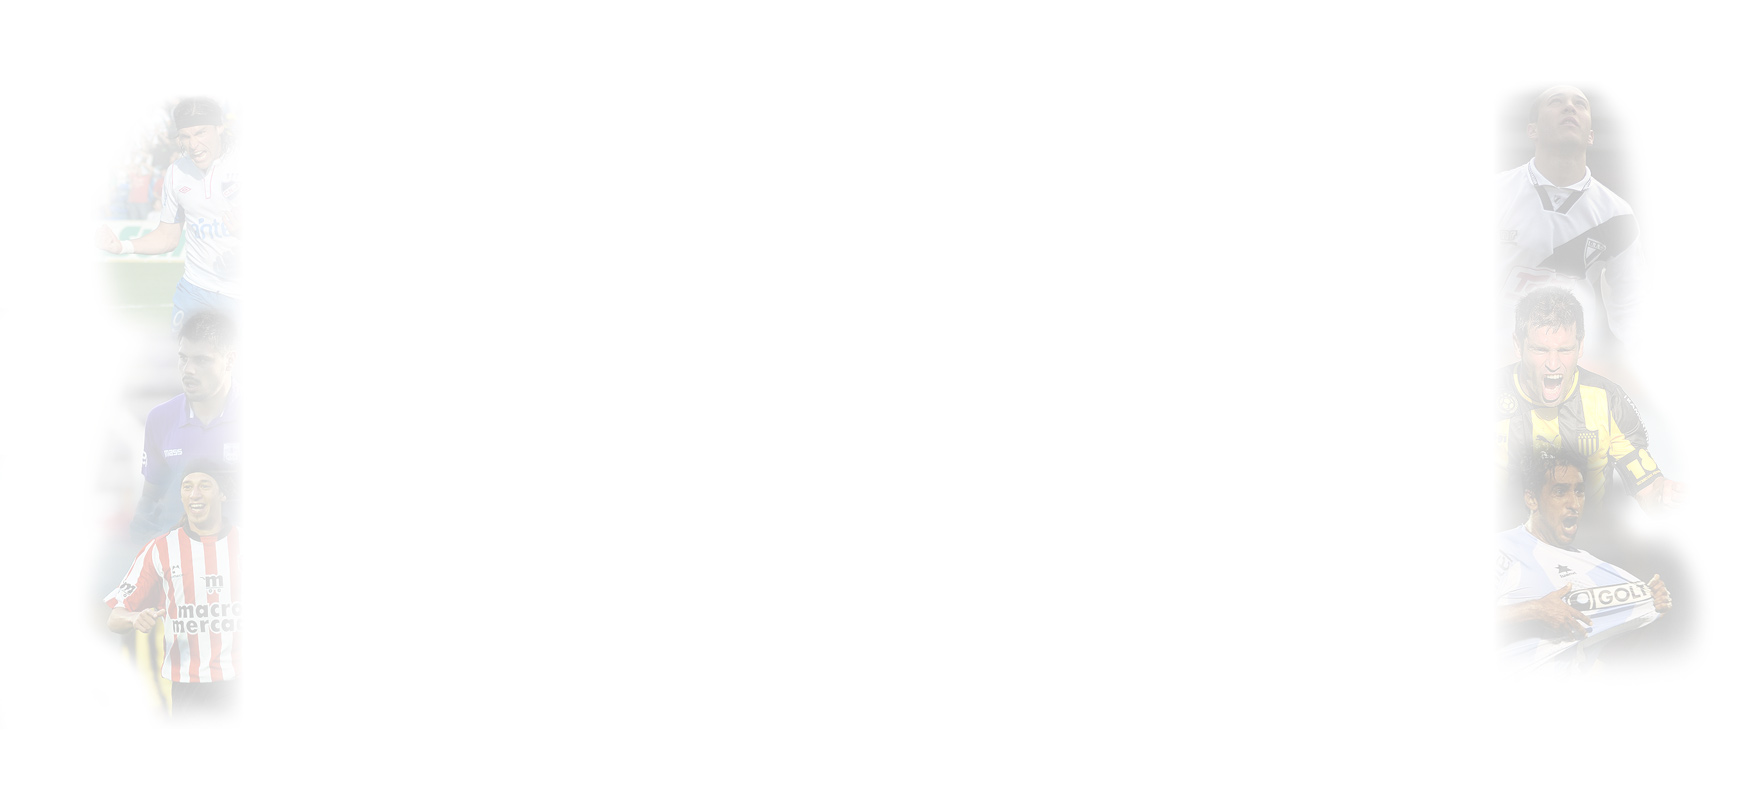
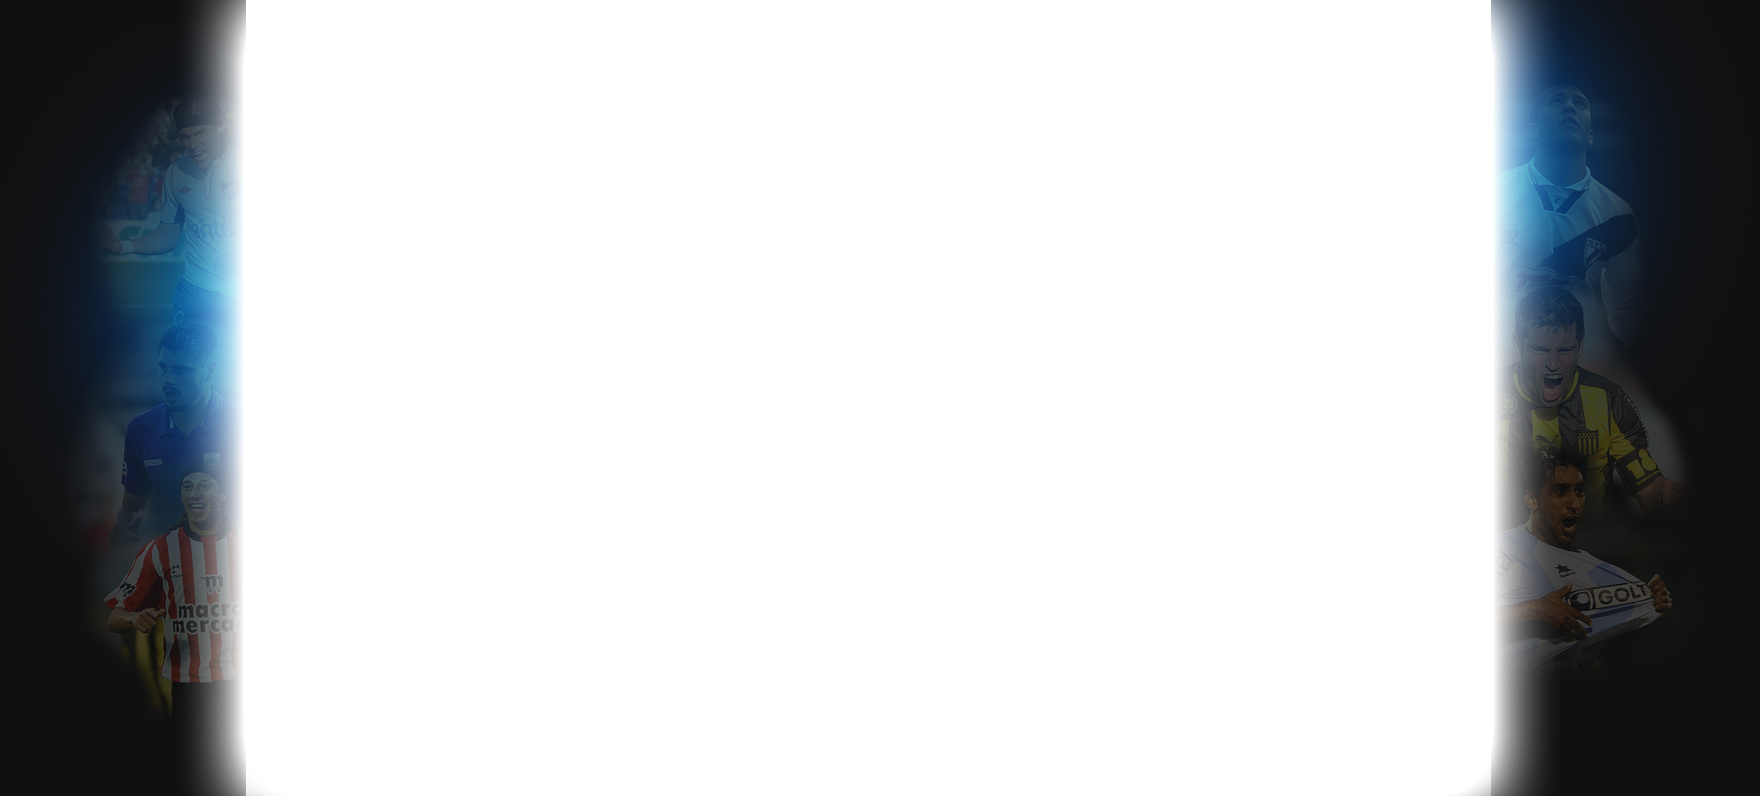
hola

Changed region(s): [[0.8125, 0.0, 1.0, 1.0], [0.0, 0.0, 0.1562, 1.0]]

diff --git a/src/scss/style.scss b/src/scss/style.scss
@@ -1,5 +1,5 @@
 body {
-	background: #fff url('../assets/images/bg.jpg') no-repeat center top;
+	background: #111 url('../assets/images/bg.jpg') no-repeat center top;
 }
 .left {
 	width: 300px;
@@ -29,7 +29,10 @@ body {
 	width: 300px;
 	height: 250px;
 	margin-bottom: 15px;
-	background: #000000;  /* fallback for old browsers */
+	background: #1e3c72;  /* fallback for old browsers */
+background: -webkit-linear-gradient(to bottom, #2a5298, #1e3c72);  /* Chrome 10-25, Safari 5.1-6 */
+background: linear-gradient(to bottom, #2a5298, #1e3c72); /* W3C, IE 10+/ Edge, Firefox 16+, Chrome 26+, Opera 12+, Safari 7+ */
+
 
     -webkit-border-bottom-right-radius: 5px;
 -moz-border-radius-bottomright: 5px;
@@ -49,6 +52,9 @@ border-bottom-right-radius: 5px;
 	margin-left: -32px;
 	margin-top: -22px;
 	background: url('../assets/images/play.png') no-repeat;
+}
+.centralRow {
+	margin-left: -11px;
 }
 .nota1 .description .meta a {
 	color: white;
@@ -76,9 +82,9 @@ border-bottom-right-radius: 5px;
 .nota1 .description {
 	width: 100%;
 	height: 155px;
-	background: #000000;  /* fallback for old browsers */
-background: -webkit-linear-gradient(to bottom, #202020, #000000);  /* Chrome 10-25, Safari 5.1-6 */
-background: linear-gradient(to bottom, #202020, #000000); /* W3C, IE 10+/ Edge, Firefox 16+, Chrome 26+, Opera 12+, Safari 7+ */
+	background: #1e3c72;  /* fallback for old browsers */
+background: -webkit-linear-gradient(to bottom, #2a5298, #1e3c72);  /* Chrome 10-25, Safari 5.1-6 */
+background: linear-gradient(to bottom, #2a5298, #1e3c72); /* W3C, IE 10+/ Edge, Firefox 16+, Chrome 26+, Opera 12+, Safari 7+ */
 
 }
 .btn-primary {

diff --git a/src/css/style.css b/src/css/style.css
@@ -1,5 +1,5 @@
 body {
-  background: #fff url("../assets/images/bg.jpg") no-repeat center top; }
+  background: #111 url("../assets/images/bg.jpg") no-repeat center top; }
 
 .left {
   width: 300px;
@@ -29,8 +29,12 @@ body {
   width: 300px;
   height: 250px;
   margin-bottom: 15px;
-  background: #000000;
+  background: #1e3c72;
   /* fallback for old browsers */
+  background: -webkit-linear-gradient(to bottom, #2a5298, #1e3c72);
+  /* Chrome 10-25, Safari 5.1-6 */
+  background: linear-gradient(to bottom, #2a5298, #1e3c72);
+  /* W3C, IE 10+/ Edge, Firefox 16+, Chrome 26+, Opera 12+, Safari 7+ */
   -webkit-border-bottom-right-radius: 5px;
   -moz-border-radius-bottomright: 5px;
   border-bottom-right-radius: 5px; }
@@ -49,6 +53,9 @@ body {
   margin-left: -32px;
   margin-top: -22px;
   background: url("../assets/images/play.png") no-repeat; }
+
+.centralRow {
+  margin-left: -11px; }
 
 .nota1 .description .meta a {
   color: white; }
@@ -74,11 +81,11 @@ body {
 .nota1 .description {
   width: 100%;
   height: 155px;
-  background: #000000;
+  background: #1e3c72;
   /* fallback for old browsers */
-  background: -webkit-linear-gradient(to bottom, #202020, #000000);
+  background: -webkit-linear-gradient(to bottom, #2a5298, #1e3c72);
   /* Chrome 10-25, Safari 5.1-6 */
-  background: linear-gradient(to bottom, #202020, #000000);
+  background: linear-gradient(to bottom, #2a5298, #1e3c72);
   /* W3C, IE 10+/ Edge, Firefox 16+, Chrome 26+, Opera 12+, Safari 7+ */ }
 
 .btn-primary {

diff --git a/src/index.html b/src/index.html
@@ -130,7 +130,7 @@
 
         <main>
             <div class="container">
-                <div class="row">
+                <div class="row centralRow">
                     <div class="left">
                         <div class="tweets btn btn-info">
                             TWEETS
